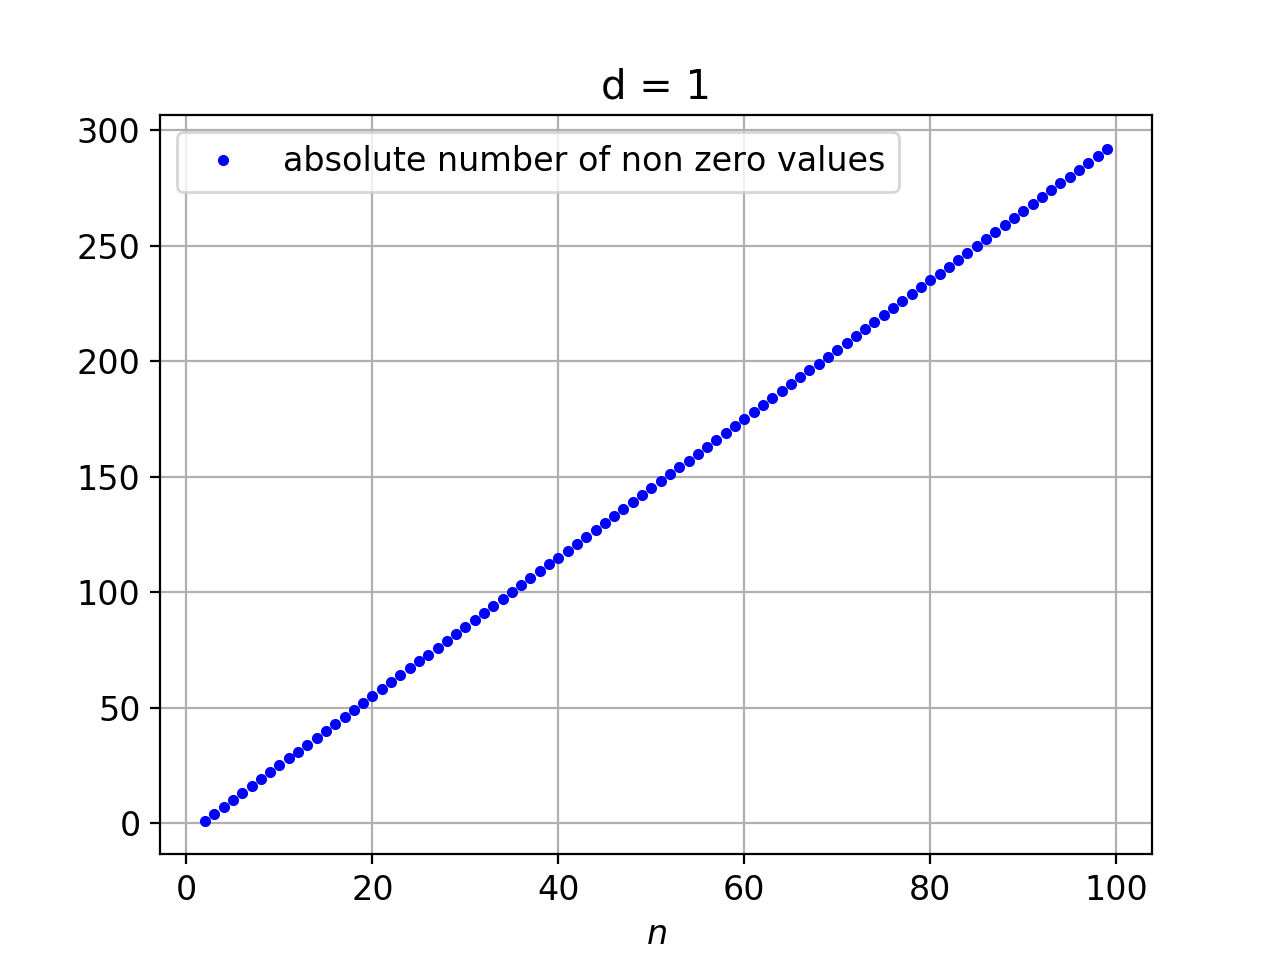
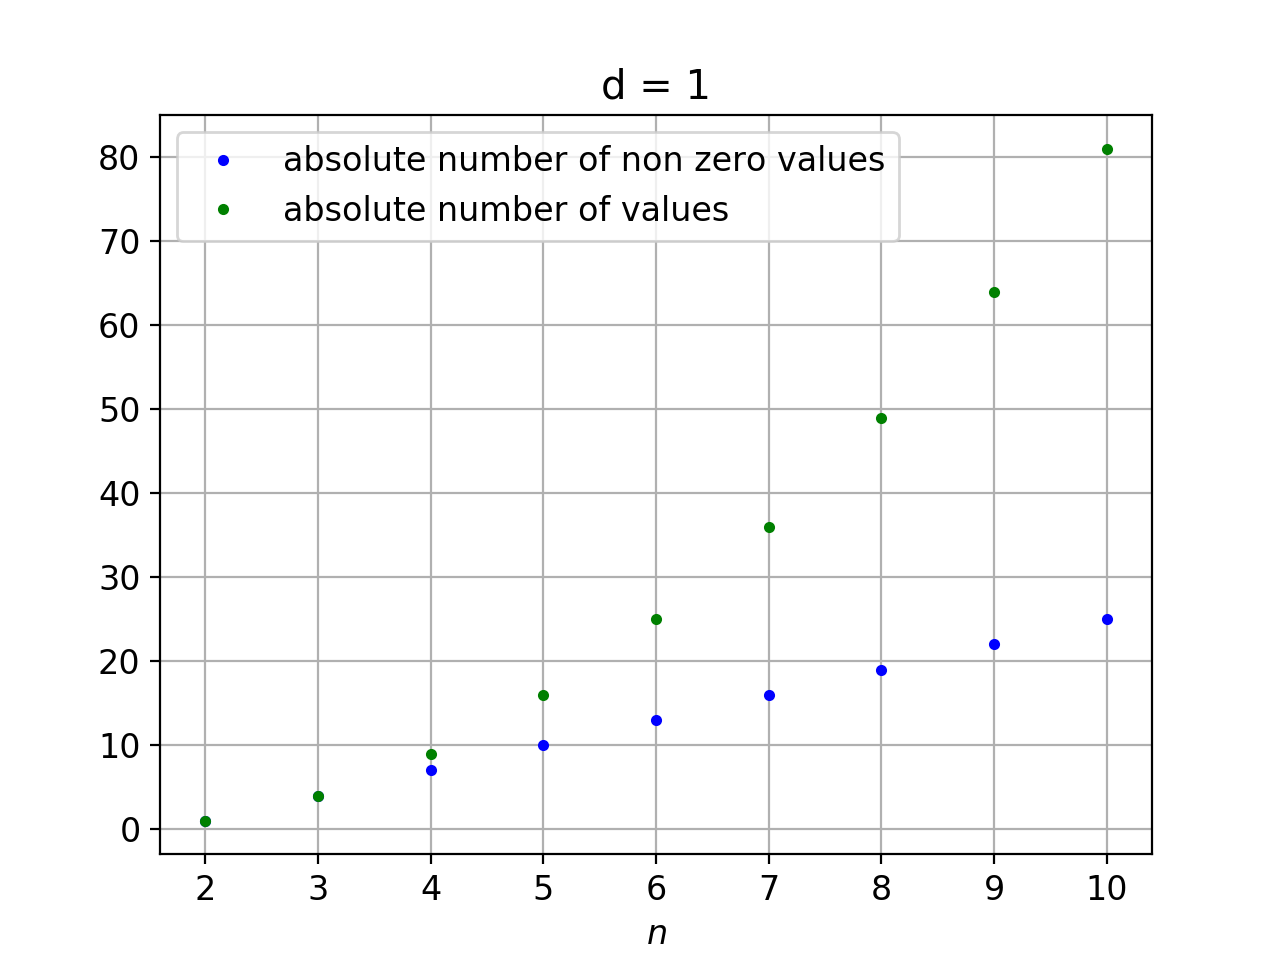
prettier code, graphics

diff --git a/Serie_2/serie2_bericht.tex b/Serie_2/serie2_bericht.tex
@@ -120,20 +120,20 @@ Die von uns entwickelte bijektive Funktion $idx: \lbrace1, 2, ..., n-1\rbrace^d 
 \[S=idx(x) = \sum_{l=2}^{d} (j_{d+2-l}-1)(n-1)^{l-1}+j_1 \]
 Die Funktion $idx$ addiert also sozusagen schichtweise in jeder Dimension auf.
 Deren Umkehrfunktion mit $idx^{-1}(S) = x = (j_1/n, j_2/n, ..., j_d/n)$ verfährt wiederum genau umgekehrt. Es wird schichtweise in jeder Dimension abgebaut. Wenn "`//"' die ganzzahlige Divison bezeichnet, dann gilt:
-
-\begin{algorithmic}
-  \For{$l:= d,...,2$}
-    \If {$S \, mod(n-1)^{l-1} == 0$}
-      \State $j_l=S//(n-1)^{l-1}$
-      \State $S = (n-1)^{l-1}$
-    \Else
-      \State $j_l=S//(n-1)^{l-1} + 1$
-      \State $S = S \, mod(n-1)^{l-1}$
-    \EndIf
-  \EndFor
-  \State $j_1 = S$
-\end{algorithmic}
-
+\begin{shaded}
+  \begin{algorithmic}
+    \For{$l:= d,...,2$}
+      \If {$S \, mod(n-1)^{l-1} == 0$}
+        \State $j_l=S//(n-1)^{l-1}$
+        \State $S = (n-1)^{l-1}$
+      \Else
+        \State $j_l=S//(n-1)^{l-1} + 1$
+        \State $S = S \, mod(n-1)^{l-1}$
+      \EndIf
+    \EndFor
+    \State $j_1 = S$
+  \end{algorithmic}
+\end{shaded}
 % \[S^{[d]}:=S\]
 % \[j_d=\begin{cases}
 % S^{[d]} // (n-1)^{d-1} + 1, & \text{falls } S^{[d]} \, mod(n-1)^{d-1} > 0 \\

diff --git a/Serie_2/block_matrix.py b/Serie_2/block_matrix.py
@@ -122,26 +122,17 @@ def plot_zeros(n_array):
             sparse_matrix = matrix.get_sparse()
             absolute_values.append(sparse_matrix.shape[0] * sparse_matrix.shape[1])
         plt.plot(n_array, non_zeros, "b.", label='absolute number of non zero values')
-        plt.plot(n_array, absolute_values, "c.", label='absolute number of values')
+        plt.plot(n_array, absolute_values, "g.", label='absolute number of values')
         plt.xlabel('$n$')
         plt.title('d = ' + str(d))
         plt.legend()
         plt.grid()
-        plt.figure()
-
-    plt.show()
+        plt.show()
 
 def main():
     """ Main function to test the BlockMatrix class.
     """
-    # A_d = BlockMatrix(2, 10)
-    # print(A_d.get_sparse().todense())
-    # print(A_d.get_sparse())
-    # print(A_d.eval_zeros())
     plot_zeros(range(2, 11))
-    # for n in range (2,11):
-    #     for d in [1, 2, 3]:
-    #         print("d=",d,"n=",n,"non_zeros=",BlockMatrix(d,n).eval_zeros()[0])
 
 if __name__ == "__main__":
     main()
